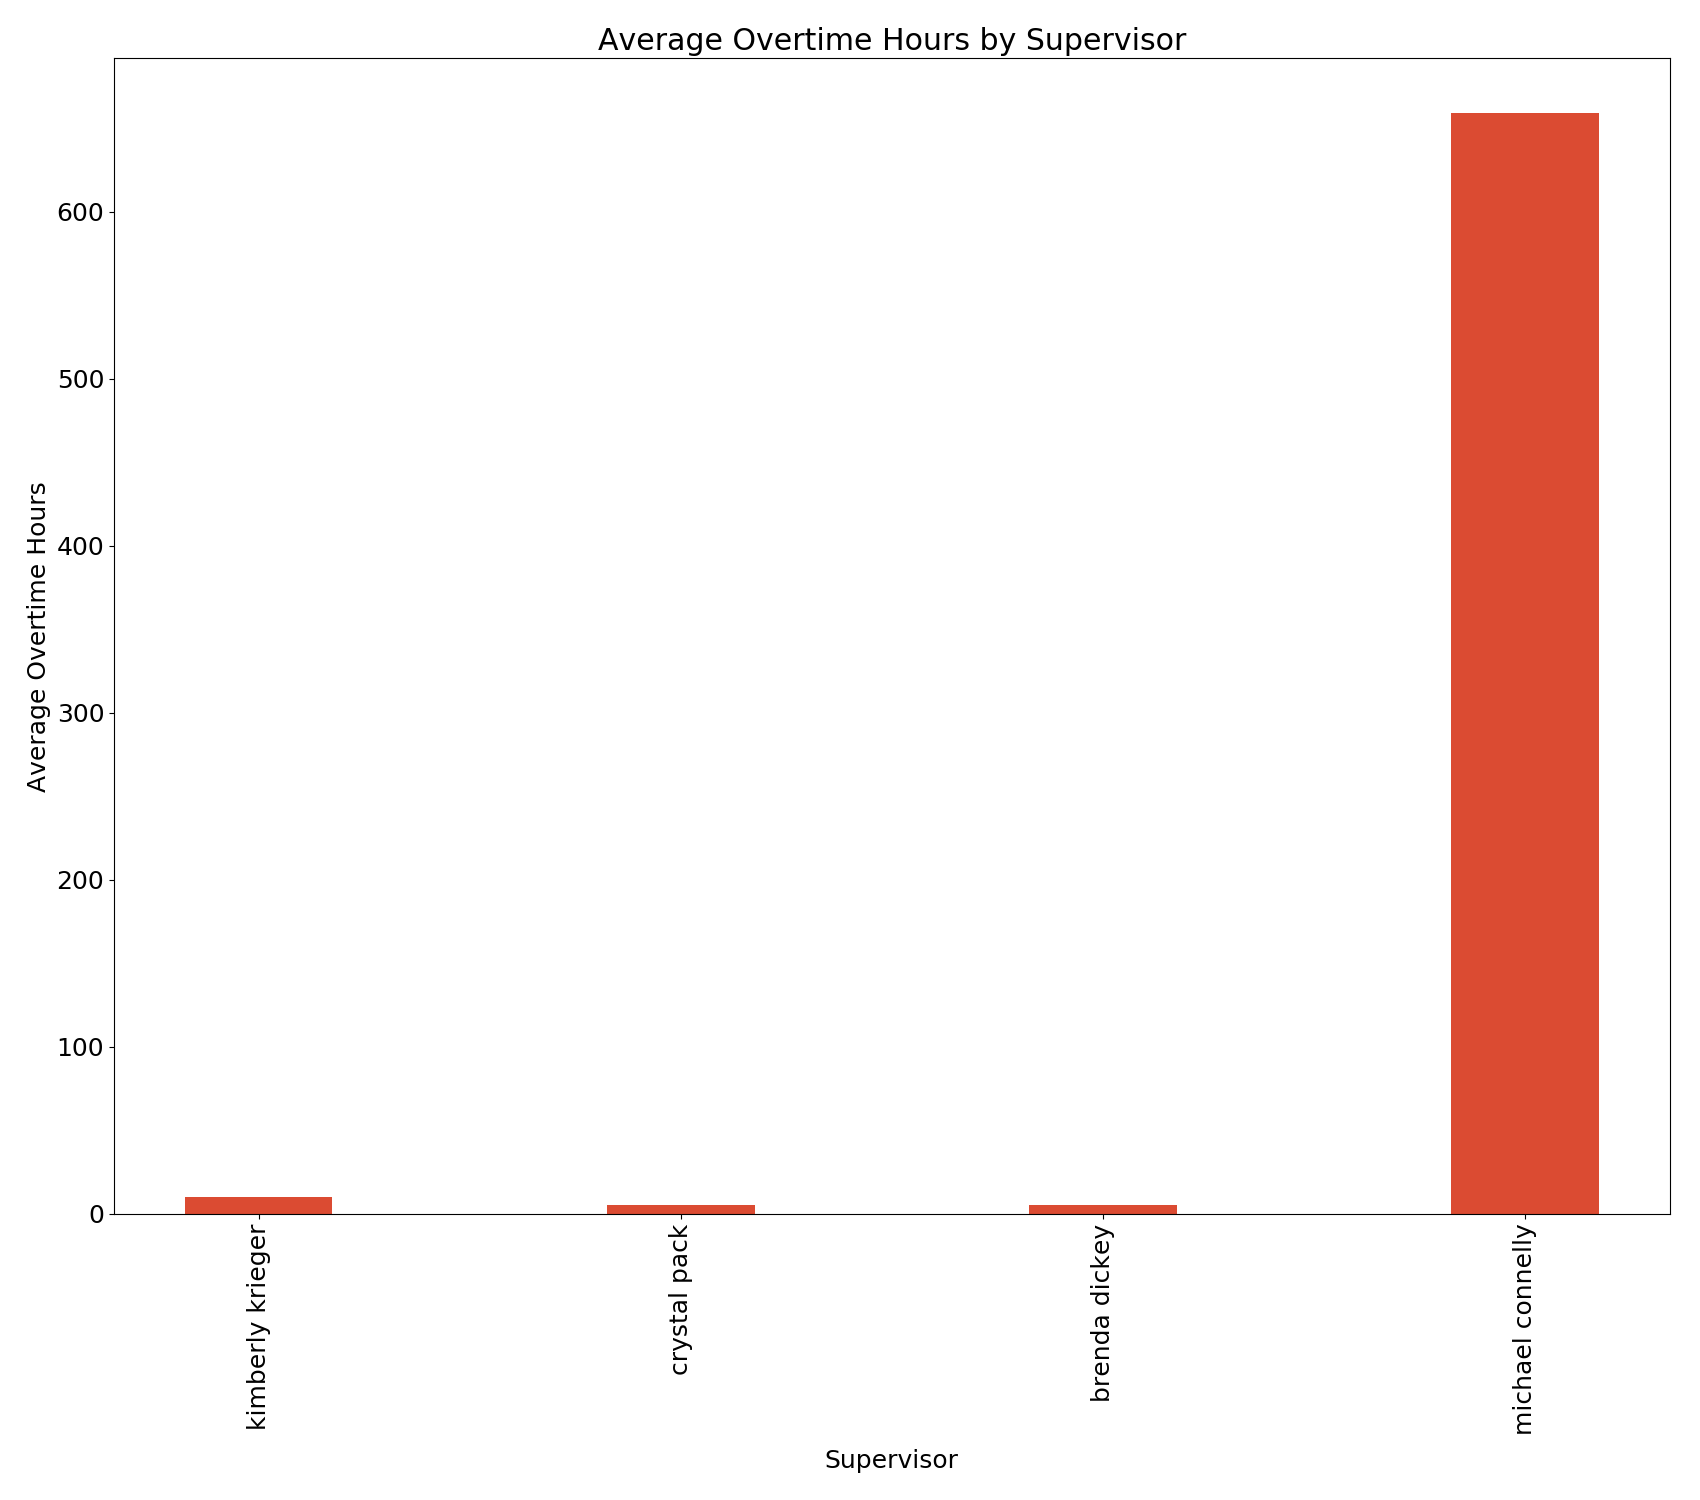
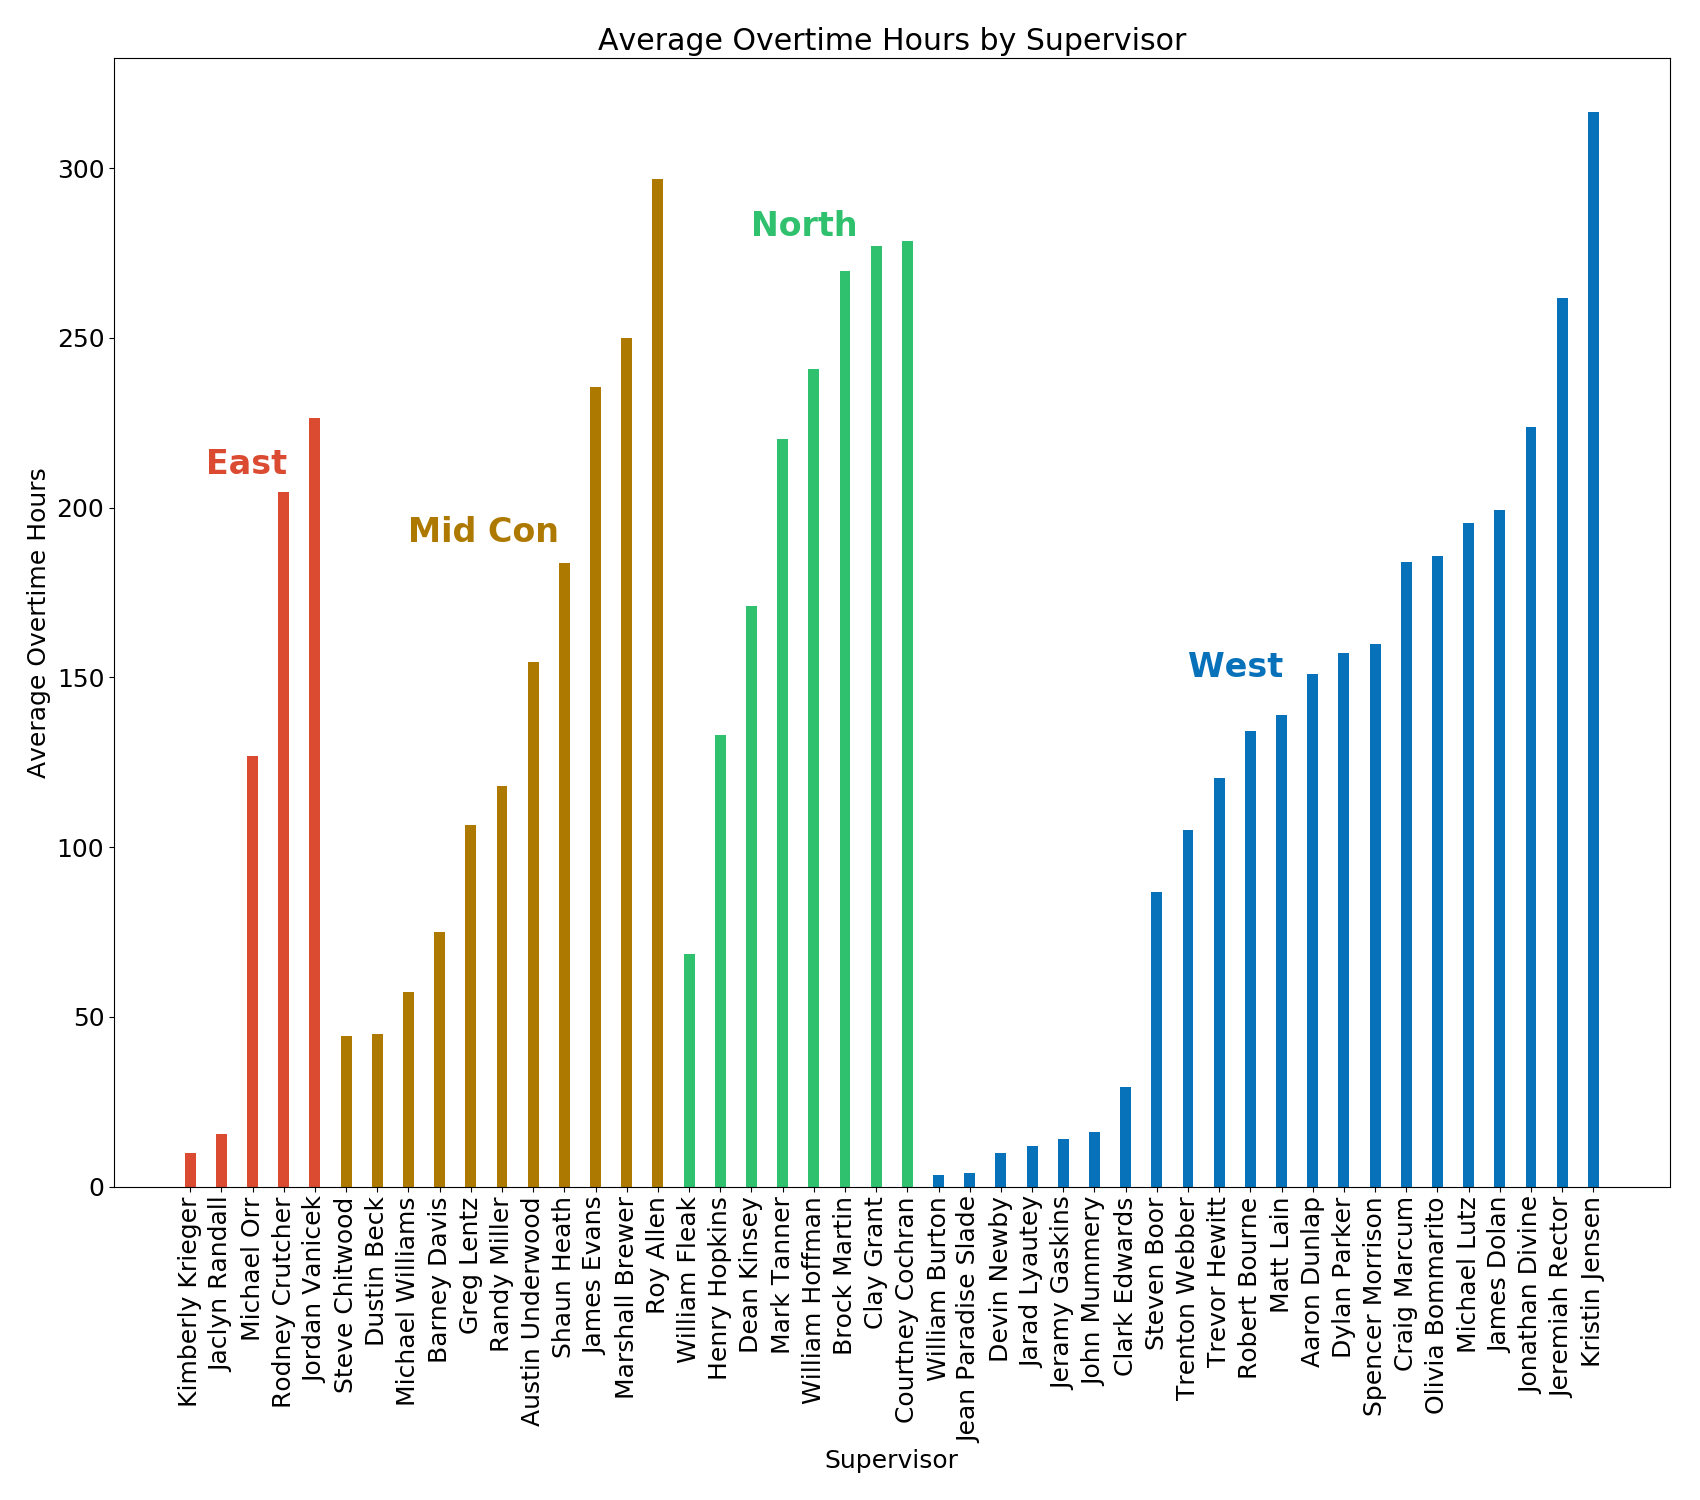
overtime by supervisor

diff --git a/eda.py b/eda.py
@@ -35,27 +35,39 @@ def overtime(vaca=False):
 
 	vo_df['emp_name'] = vo_df['first_name'].str.lower() + ' ' + vo_df['last_name'].str.lower()
 
-	sup_df = pd.read_csv('data/supervisors.csv')
+	# sup_df = pd.read_csv('data/vaca_rej.csv')
+	# sup_df.columns = [col.lower().replace(' ', '_') for col in sup_df.columns]
+	# sup_df.rename(columns={'manager/approver_name': 'supervisor'}, inplace=True)
+    #
+	# sup_df['emp_name'] = sup_df['employee_name'].str.lower()
+	# sup_df['emp_name'] = sup_df['emp_name'].str.lstrip(' ')
+	# sup_df['emp_name'] = sup_df['emp_name'].str.lstrip('miss')
+	# sup_df['emp_name'] = sup_df['emp_name'].str.lstrip('ms')
+	# sup_df['emp_name'] = sup_df['emp_name'].str.lstrip('mr')
+	# sup_df['emp_name'] = sup_df['emp_name'].str.lstrip('mrs')
+    #
+	# sup_df['super'] = sup_df['manager/approver_name'].str.lower()
+	# sup_df['super'] = sup_df['super'].str.lstrip(' ')
+	# sup_df['super'] = sup_df['super'].str.lstrip('miss')
+	# sup_df['super'] = sup_df['super'].str.lstrip('ms')
+	# sup_df['super'] = sup_df['super'].str.lstrip('mr')
+	# sup_df['super'] = sup_df['super'].str.lstrip('mrs')
+
+	sup_df = pd.read_csv('data/super_map.csv')
 	sup_df.columns = [col.lower().replace(' ', '_') for col in sup_df.columns]
+	sup_df.rename(columns={'employee_name': 'emp_name'}, inplace=True)
 
-	sup_df['emp_name'] = sup_df['employee_name'].str.lower()
-	sup_df['emp_name'] = sup_df['emp_name'].str.lstrip(' ')
-	sup_df['emp_name'] = sup_df['emp_name'].str.lstrip('miss')
-	sup_df['emp_name'] = sup_df['emp_name'].str.lstrip('ms')
-	sup_df['emp_name'] = sup_df['emp_name'].str.lstrip('mr')
-	sup_df['emp_name'] = sup_df['emp_name'].str.lstrip('mrs')
+	def name_format(val):
+		return ' '.join(val.split(',')[::-1]).lower().strip()
 
-	sup_df['super'] = sup_df['manager/approver_name'].str.lower()
-	sup_df['super'] = sup_df['super'].str.lstrip(' ')
-	sup_df['super'] = sup_df['super'].str.lstrip('miss')
-	sup_df['super'] = sup_df['super'].str.lstrip('ms')
-	sup_df['super'] = sup_df['super'].str.lstrip('mr')
-	sup_df['super'] = sup_df['super'].str.lstrip('mrs')
+	for col in ['emp_name', 'supervisor']:
+		sup_df.loc[:, col] = sup_df[col].apply(name_format)
 
-	sup_df = sup_df[['emp_name', 'super']].drop_duplicates()
+	sup_df = sup_df[['emp_name', 'supervisor']].drop_duplicates()
+	sup_df.loc[:, 'supervisor'] = sup_df['supervisor'].str.title()
 
 	df = pd.merge(vo_df, sup_df, on='emp_name', how='outer')
-	# df.drop_duplicates(inplace=True)
+	df['number_of_hours'].fillna(0, inplace=True)
 
 	return df
 
@@ -433,23 +445,53 @@ def sup_ot(df):
 	fig, ax = plt.subplots(1, 1, figsize=(17, 15))
 	matplotlib.rcParams.update({'font.size': 18})
 
-	y_dic = {}
-	for supervisor in df['super'].unique():
-		avg_hours = df[df['super'] == supervisor]['number_of_hours'].mean()
+	sup_dic = {}
+	north = {}
+	east = {}
+	west = {}
+	mid = {}
+	for supervisor in df['supervisor'].unique():
+		avg_hours = df[df['supervisor'] == supervisor]['number_of_hours'].mean()
 		if avg_hours > 0:
-			y_dic[supervisor] = avg_hours
+			sup_dic[supervisor] = avg_hours
+			if 'north' in df[df['supervisor'] == supervisor]['bu'].unique()[0].lower():
+				north[supervisor] = avg_hours
+			elif 'east' in df[df['supervisor'] == supervisor]['bu'].unique()[0].lower():
+				east[supervisor] = avg_hours
+			elif 'west' in df[df['supervisor'] == supervisor]['bu'].unique()[0].lower():
+				west[supervisor] = avg_hours
+			elif 'mid' in df[df['supervisor'] == supervisor]['bu'].unique()[0].lower():
+				mid[supervisor] = avg_hours
+
+	y_dic = {}
+	for bu in [east, mid, north, west]:
+		for sup in sorted(bu, key=bu.__getitem__):
+			y_dic[sup] = bu[sup]
 
 	ind = np.arange(len(y_dic.keys()))
 	width = 0.35
 
-	# p1 = ax1.bar(ind, y_dic.values(), width, color='#db4b32')
-	p1 = ax.bar(ind, y_dic.values(), width, color='#db4b32')
+	east_ind = ind[:len(east)]
+	mid_ind = ind[len(east):len(east) + len(mid)]
+	north_ind = ind[len(east) + len(mid): len(east) + len(mid) + len(north)]
+	west_ind = ind[len(east) + len(mid) + len(north):]
+
+	p1 = ax.bar(east_ind, sorted(east.values()), width, color='#db4b32')
+	p2 = ax.bar(mid_ind, sorted(mid.values()), width, color='#ad7900')
+	p3 = ax.bar(north_ind, sorted(north.values()), width, color='#30c16f')
+	p4 = ax.bar(west_ind, sorted(west.values()), width, color='#0772ba')
 	ax.set_ylabel('Average Overtime Hours')
 	ax.set_xlabel('Supervisor')
-	plt.xticks(ind, y_dic.keys(), rotation='vertical')
-	# ax1.set_xticks(bu_labels, minor=True)
+	ax.text(.5, 210, 'East', color='#db4b32', fontsize=24, fontweight='bold')
+	ax.text(7, 190, 'Mid Con', color='#ad7900', fontsize=24, fontweight='bold')
+	ax.text(18, 280, 'North', color='#30c16f', fontsize=24, fontweight='bold')
+	ax.text(32, 150, 'West', color='#0772ba', fontsize=24, fontweight='bold')
 
-	# plt.legend((p1[0], p2[0], p3[0], p4[0]), ('East', 'Mid Con', 'North', 'West'), loc=2)
+	# p1 = ax.bar(ind, y_dic.values(), width, color='#db4b32')
+	# ax.set_ylabel('Average Overtime Hours')
+	# ax.set_xlabel('Supervisor')
+	plt.xticks(ind, y_dic.keys(), rotation='vertical')
+
 	plt.title('Average Overtime Hours by Supervisor')
 	plt.tight_layout()
 
@@ -512,13 +554,13 @@ def ot_nonexempt(df):
 
 
 if __name__ == '__main__':
-	# ot_df = overtime()
+	ot_df = overtime()
 	# bu_ot(ot_df)
 	# org_ot(ot_df)
 	# bu_ot_50(ot_df)
 	# ot_vac_df = overtime(vaca=True)
 	# ot_nonexempt(ot_df)
-	# sup_ot(ot_df)
+	sup_ot(ot_df)
 
 	# vaca_df = vacation()
 	# vac_remaining(vaca_df)
@@ -532,5 +574,5 @@ if __name__ == '__main__':
 	# w_ot_df = west_overtime()
 	# west_sup_plot(w_ot_df)
 
-	vaca_df, full_df = rej_vaca()
-	reject_plot(vaca_df, full_df, plot_type='total')
+	# vaca_df, full_df = rej_vaca()
+	# reject_plot(vaca_df, full_df, plot_type='total')
